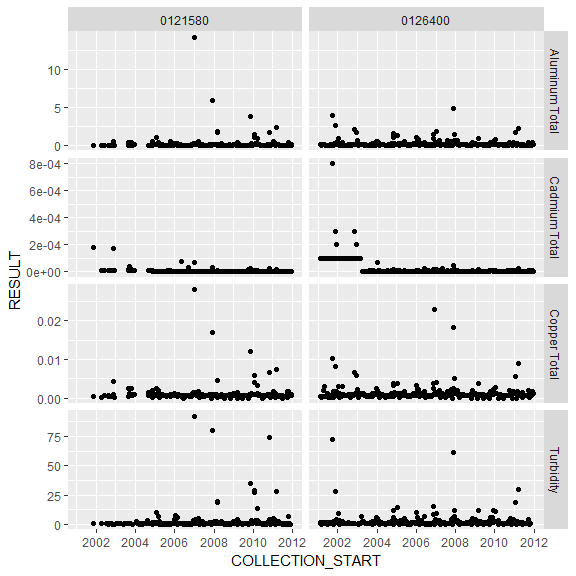
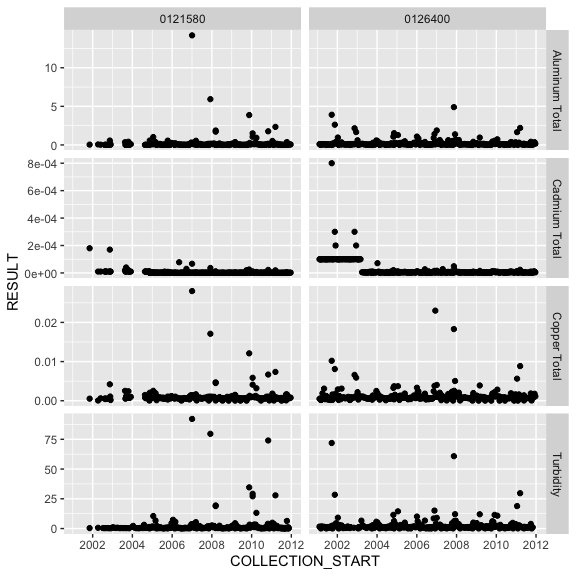
Add example of standardize_mdl_units to README

diff --git a/README.md b/README.md
@@ -1,17 +1,14 @@
 
 <!-- README.md is generated from README.Rmd. Please edit that file -->
 
-# rems 0.6.0
+# rems 0.6.1.9000
 
 <!-- badges: start -->
 
-[![Codecov test
-coverage](https://codecov.io/gh/bcgov/rems/branch/master/graph/badge.svg)](https://codecov.io/gh/bcgov/rems?branch=master)
+[![Codecov test coverage](https://codecov.io/gh/bcgov/rems/branch/master/graph/badge.svg)](https://codecov.io/gh/bcgov/rems?branch=master)
 [![License](https://img.shields.io/badge/License-Apache2.0-blue.svg)](https://opensource.org/licenses/Apache-2.0)
-[![CRAN
-status](https://www.r-pkg.org/badges/version/rems)](https://cran.r-project.org/package=rems)
-[![R build
-status](https://github.com/bcgov/rems/workflows/R-CMD-check/badge.svg)](https://github.com/bcgov/rems/actions)
+[![CRAN status](https://www.r-pkg.org/badges/version/rems)](https://cran.r-project.org/package=rems)
+[![R build status](https://github.com/bcgov/rems/workflows/R-CMD-check/badge.svg)](https://github.com/bcgov/rems/actions)
 [![img](https://img.shields.io/badge/Lifecycle-Maturing-007EC6)](https://github.com/bcgov/repomountie/blob/master/doc/lifecycle-badges.md)
 <!-- badges: end -->
 
@@ -53,12 +50,9 @@ data):
 ``` r
 library(rems)
 two_year <- get_ems_data(which = "2yr", ask = FALSE)
-#> Downloading latest '2yr' EMS data from BC Data Catalogue (url: https://pub.data.gov.bc.ca/datasets/949f2233-9612-4b06-92a9-903e817da659/ems_sample_results_current_expanded.csv)
-#> Reading data from file...
-#> Caching data on disk...
-#> Loading data...
+#> Fetching data from cache...
 nrow(two_year)
-#> [1] 874045
+#> [1] 951551
 head(two_year)
 #> # A tibble: 6 x 23
 #>   EMS_ID MONITORING_LOCA… LATITUDE LONGITUDE LOCATION_TYPE COLLECTION_START   
@@ -167,7 +161,7 @@ glimpse(filtered_historic2)
 #> $ EMS_ID           <chr> "0121580", "0121580", "0121580", "0121580", "0121580…
 #> $ PARAMETER        <chr> "Turbidity", "Aluminum Total", "Turbidity", "Turbidi…
 #> $ COLLECTION_START <dttm> 2010-04-12 08:50:00, 2010-08-23 09:12:00, 2016-08-0…
-#> $ RESULT           <dbl> 0.900000, 0.013800, 0.320000, 0.620000, 1.600000, 0.…
+#> $ RESULT           <dbl> 0.900000, 0.013800, 0.320000, 0.300000, 0.700000, 0.…
 ```
 
 You can combine the previously imported historic and two\_year data sets
@@ -175,8 +169,61 @@ using `bind_ems_data`:
 
 ``` r
 all_data <- bind_ems_data(filtered_2yr, filtered_historic)
-nrow(all_data)
-#> [1] 2481
+head(all_data)
+#> # A tibble: 6 x 23
+#>   EMS_ID MONITORING_LOCA… LATITUDE LONGITUDE LOCATION_TYPE COLLECTION_START   
+#>   <chr>  <chr>               <dbl>     <dbl> <chr>         <dttm>             
+#> 1 01215… ENGLISHMAN RIVE…     49.3     -124. RIVER,STREAM… 2010-04-12 08:50:00
+#> 2 01215… ENGLISHMAN RIVE…     49.3     -124. RIVER,STREAM… 2010-08-23 09:12:00
+#> 3 01215… ENGLISHMAN RIVE…     49.3     -124. RIVER,STREAM… 2010-07-20 09:47:00
+#> 4 01215… ENGLISHMAN RIVE…     49.3     -124. RIVER,STREAM… 2009-09-29 09:25:00
+#> 5 01215… ENGLISHMAN RIVE…     49.3     -124. RIVER,STREAM… 2003-02-06 13:30:00
+#> 6 01215… ENGLISHMAN RIVE…     49.3     -124. RIVER,STREAM… 2007-11-20 09:15:00
+#> # … with 17 more variables: LOCATION_PURPOSE <chr>, PERMIT <chr>,
+#> #   SAMPLE_CLASS <chr>, SAMPLE_STATE <chr>, SAMPLE_DESCRIPTOR <chr>,
+#> #   PARAMETER_CODE <chr>, PARAMETER <chr>, ANALYTICAL_METHOD_CODE <chr>,
+#> #   ANALYTICAL_METHOD <chr>, RESULT_LETTER <chr>, RESULT <dbl>, UNIT <chr>,
+#> #   METHOD_DETECTION_LIMIT <dbl>, MDL_UNIT <chr>, QA_INDEX_CODE <chr>,
+#> #   UPPER_DEPTH <dbl>, LOWER_DEPTH <dbl>
+```
+
+## Units
+
+There are many cases in EMS data where the unit of the `RESULT` (in the
+`UNIT` column) is different from that of `METHOD_DETECTION_LIMIT`
+(`MDL_UNIT` column). The `standardize_mdl_units()` function converts the
+`METHOD_DETECTION_LIMIT` values to the same unit as `RESULT`, and
+updates the `MDL_UNIT` column accordingly:
+
+``` r
+# look at data with mismatched units:
+filter(all_data, UNIT != MDL_UNIT) %>% 
+  select(RESULT, UNIT, METHOD_DETECTION_LIMIT, MDL_UNIT) %>% 
+  head()
+#> # A tibble: 6 x 4
+#>     RESULT UNIT  METHOD_DETECTION_LIMIT MDL_UNIT
+#>      <dbl> <chr>                  <dbl> <chr>   
+#> 1 0.0138   mg/L                   0.5   ug/L    
+#> 2 0.000002 mg/L                   0.001 ug/L    
+#> 3 0.00074  mg/L                   0.02  ug/L    
+#> 4 0.0947   mg/L                   0.2   ug/L    
+#> 5 0.00072  mg/L                   0.02  ug/L    
+#> 6 0.00068  mg/L                   0.02  ug/L
+
+all_data <- standardize_mdl_units(all_data)
+#> Successfully converted units in 1629 rows.
+
+# Check again
+filter(all_data, UNIT != MDL_UNIT) %>% 
+  select(RESULT, UNIT, METHOD_DETECTION_LIMIT, MDL_UNIT) %>% 
+  head()
+#> # A tibble: 3 x 4
+#> # Groups:   MDL_UNIT, UNIT [1]
+#>     RESULT UNIT  METHOD_DETECTION_LIMIT MDL_UNIT
+#>      <dbl> <chr>                  <dbl> <chr>   
+#> 1 0.00065  mg/L                      NA ug/L    
+#> 2 0.000005 mg/L                      NA ug/L    
+#> 3 0.0122   mg/L                      NA ug/L
 ```
 
 For more advanced filtering, selecting, and summarizing, I recommend
@@ -192,7 +239,7 @@ ggplot(all_data, aes(x = COLLECTION_START, y = RESULT)) +
   facet_grid(PARAMETER ~ EMS_ID, scales = "free_y")
 ```
 
-![](fig/README-unnamed-chunk-11-1.png)<!-- -->
+![](fig/README-unnamed-chunk-12-1.png)<!-- -->
 
 When you are finished querying the historic database, you should close
 the database connection using `disconnect_historic_db()`:
